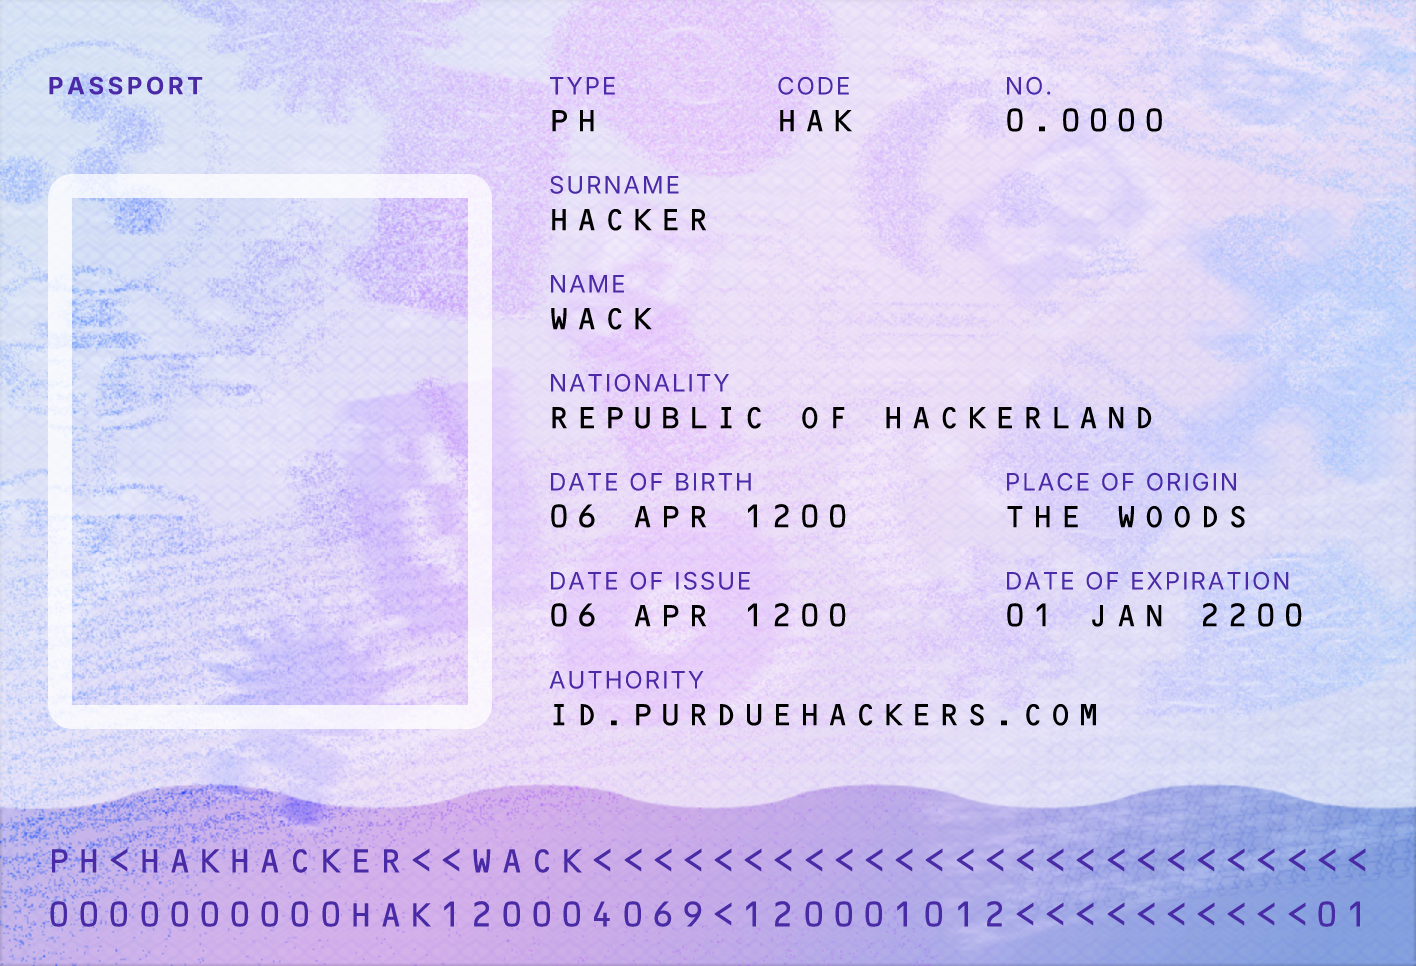
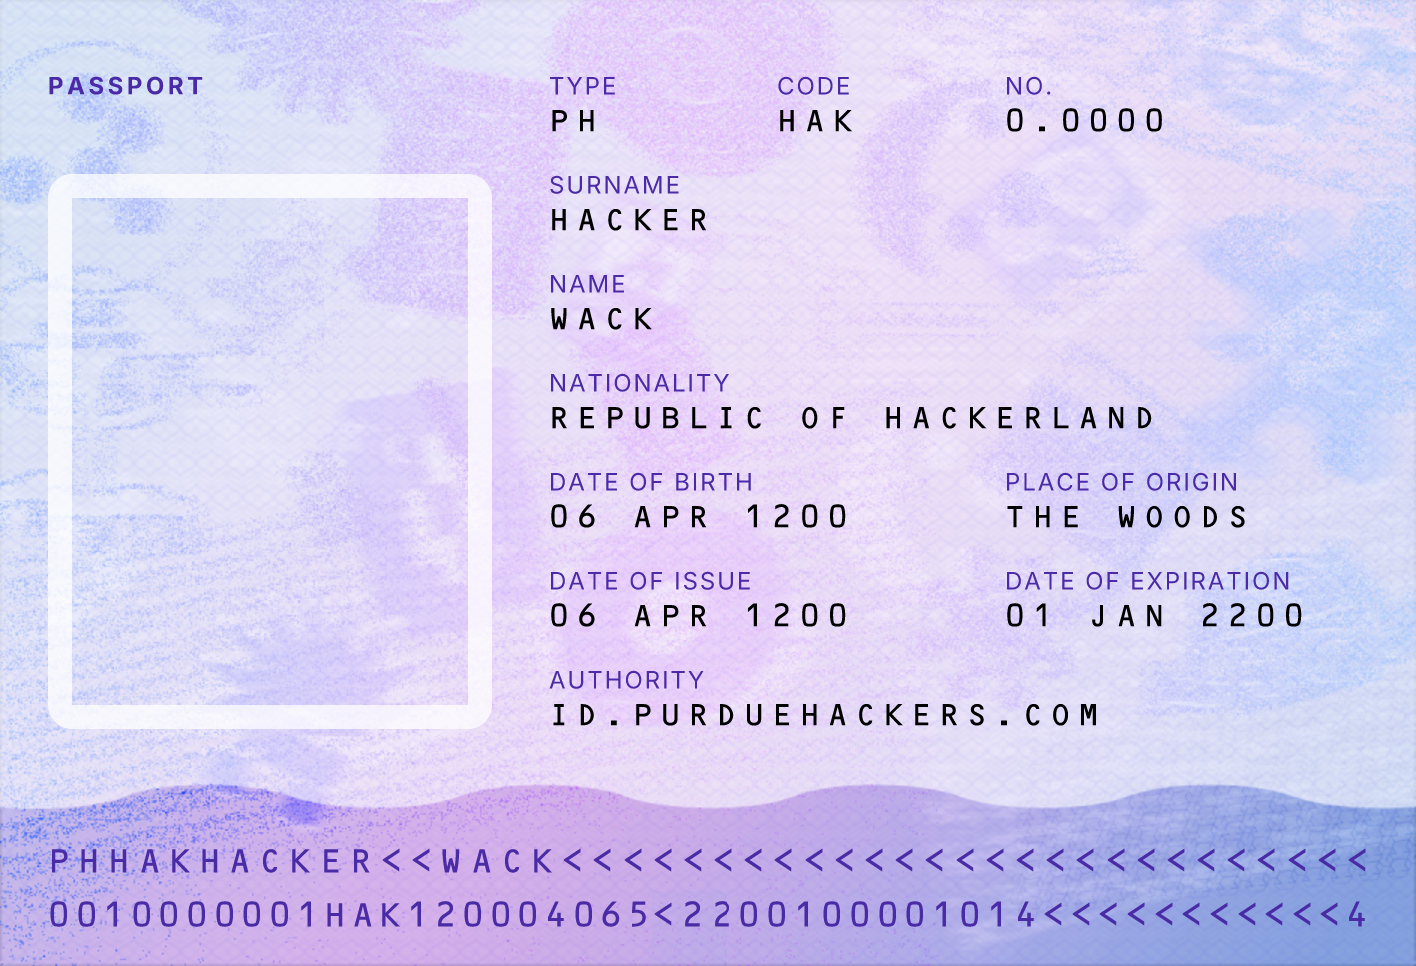
Change Machine Readable Passport lines to closer match ICAO 9303 specifications (#44)
* Correct Passport Type, Expiration Date

* MRP Overhaul First Pass

* Truncate Long Names

* Update default.png to match new MRP

* Remove .prettierrc (See #43)

* Fix/Revert index.tsx Formatting

Changed region(s): [[0.0621, 0.9317, 0.9633, 0.9627], [0.0621, 0.8696, 0.2797, 0.9006], [0.3107, 0.8696, 0.404, 0.9006]]

diff --git a/components/passport/index.tsx b/components/passport/index.tsx
@@ -58,37 +58,116 @@ export function Passport({
         />
       </div>
       <FooterSection
-        topLine={`PH<HAK${data.surname.replace(
-          " ",
-          ""
-        )}<<${data.firstName.replace(" ", "")}`.padEnd(44, "<")}
+        topLine={`PHHAK${formatName(data.surname)}<<${formatName(
+          data.firstName
+        )}`.padEnd(44, "<").substring(0,44)}
         bottomLine={`${String(CURRENT_PASSPORT_VERSION).padStart(
           3,
           "0"
-        )}${String(data.passportNumber).padStart(6, "0")}${
-          (CURRENT_PASSPORT_VERSION + data.passportNumber) % 10
-        }HAK${String(data.dateOfBirth.getUTCFullYear()).padStart(4, "0")}${String(
-          data.dateOfBirth.getUTCMonth() + 1
-        ).padStart(2, "0")}${String(data.dateOfBirth.getUTCDate()).padStart(
+        )}${String(data.passportNumber).padStart(6, "0")}${calculateChecksum(
+          String(CURRENT_PASSPORT_VERSION).padStart(3, "0") +
+            String(data.passportNumber).padStart(6, "0")
+        )}HAK${String(data.dateOfBirth.getUTCFullYear()).padStart(
+          4,
+          "0"
+        )}${String(data.dateOfBirth.getUTCMonth() + 1).padStart(
           2,
           "0"
-        )}${
-          (data.dateOfBirth.getUTCFullYear() +
-            data.dateOfBirth.getUTCMonth() +
-            data.dateOfBirth.getUTCDate()) %
-          10
-        }<${String(data.dateOfIssue.getUTCFullYear()).padStart(4, "0")}0101${
-          (data.dateOfIssue.getUTCFullYear() + 2) % 10
-        }<<<<<<<<<<0${
-          (CURRENT_PASSPORT_VERSION +
-            data.passportNumber +
-            (data.dateOfBirth.getUTCFullYear() +
-              data.dateOfBirth.getUTCMonth() +
-              data.dateOfBirth.getUTCDate()) +
-            (data.dateOfIssue.getUTCFullYear() + 2)) %
-          10
-        }`}
+        )}${String(data.dateOfBirth.getUTCDate()).padStart(
+          2,
+          "0"
+        )}${calculateChecksum(
+          String(data.dateOfBirth.getUTCFullYear()).padStart(4, "0") +
+            String(data.dateOfBirth.getUTCMonth() + 1).padStart(2, "0") +
+            String(data.dateOfBirth.getUTCDate()).padStart(2, "0")
+        )}<${String(data.dateOfIssue.getUTCFullYear() + 1000).padStart(
+          4,
+          "0"
+        )}0101${calculateChecksum(
+          String(data.dateOfIssue.getUTCFullYear() + 1000).padStart(4, "0") +
+            "0101"
+        )}<<<<<<<<<<<${calculateChecksum(
+          calculateChecksum(
+            String(CURRENT_PASSPORT_VERSION).padStart(3, "0") +
+              String(data.passportNumber).padStart(6, "0")
+          ) +
+            calculateChecksum(
+              String(CURRENT_PASSPORT_VERSION).padStart(3, "0") +
+                String(data.passportNumber).padStart(6, "0")
+            ) +
+            String(data.dateOfBirth.getUTCFullYear()).padStart(4, "0") +
+            String(data.dateOfBirth.getUTCMonth() + 1).padStart(2, "0") +
+            String(data.dateOfBirth.getUTCDate()).padStart(2, "0") +
+            calculateChecksum(
+              String(data.dateOfBirth.getUTCFullYear()).padStart(4, "0") +
+                String(data.dateOfBirth.getUTCMonth() + 1).padStart(2, "0") +
+                String(data.dateOfBirth.getUTCDate()).padStart(2, "0")
+            ) +
+            String(data.dateOfIssue.getUTCFullYear() + 1000).padStart(4, "0") +
+            "0101" +
+            calculateChecksum(
+              String(data.dateOfIssue.getUTCFullYear() + 1000).padStart(
+                4,
+                "0"
+              ) + "0101"
+            ) +
+            "<<<<<<<<<<<"
+        )}`}
       />
     </div>
   );
+}
+
+function formatName(nameString: string) {
+  return (
+    nameString
+      // Permit certain diacritics
+      .replace(/[\u00E5]/g, "AA")
+      .replace(/[\u00E4]/g, "AE")
+      .replace(/[\u00F0]/g, "DH")
+      .replace(/[\u0132-\u0133]/g, "IJ")
+      .replace(/[\u00F6]/g, "OE")
+      .replace(/[\u00FC]/g, "UE")
+      .replace(/[\u00F1]/g, "N")
+      .replace(/[\u00E6]/g, "AE")
+      .replace(/[\u0153]/g, "OE")
+      .replace(/[\u00DF]/g, "SS")
+      .replace(/[\u00FE]/g, "TH")
+      // Cleanly remove all other diacritics
+      .normalize("NFD")
+      .replace(/[\u0300-\u036f]/g, "")
+      // Spaces, Hyphens to Bracket
+      .replace(/- /g, "<")
+      // Remove other non-alphanumerics
+      .replace(/[^a-zA-Z0-9]/g, "")
+  );
+}
+
+function calculateChecksum(checkString: string) {
+  let checksum = 0;
+  let weight = 0;
+
+  for (let i = 0; i < checkString.length; i++) {
+    switch (i % 3) {
+      case 0:
+        weight = 7;
+        break;
+      case 1:
+        weight = 3;
+        break;
+      case 2:
+        weight = 1;
+        break;
+    }
+
+    if (checkString[i].match(/[A-Z]/i)) {
+      checksum += weight * (checkString.charCodeAt(i) - 55); // Sets A (ASCII 65) to be worth 10
+    } else if (checkString[i].match(/\d+/)) {
+      checksum += weight * parseInt(checkString[i]);
+    } else if (checkString[i].match(/</g)) {
+      checksum += weight * 0;
+    }
+  }
+
+  return (checksum % 10).toString();
 }
